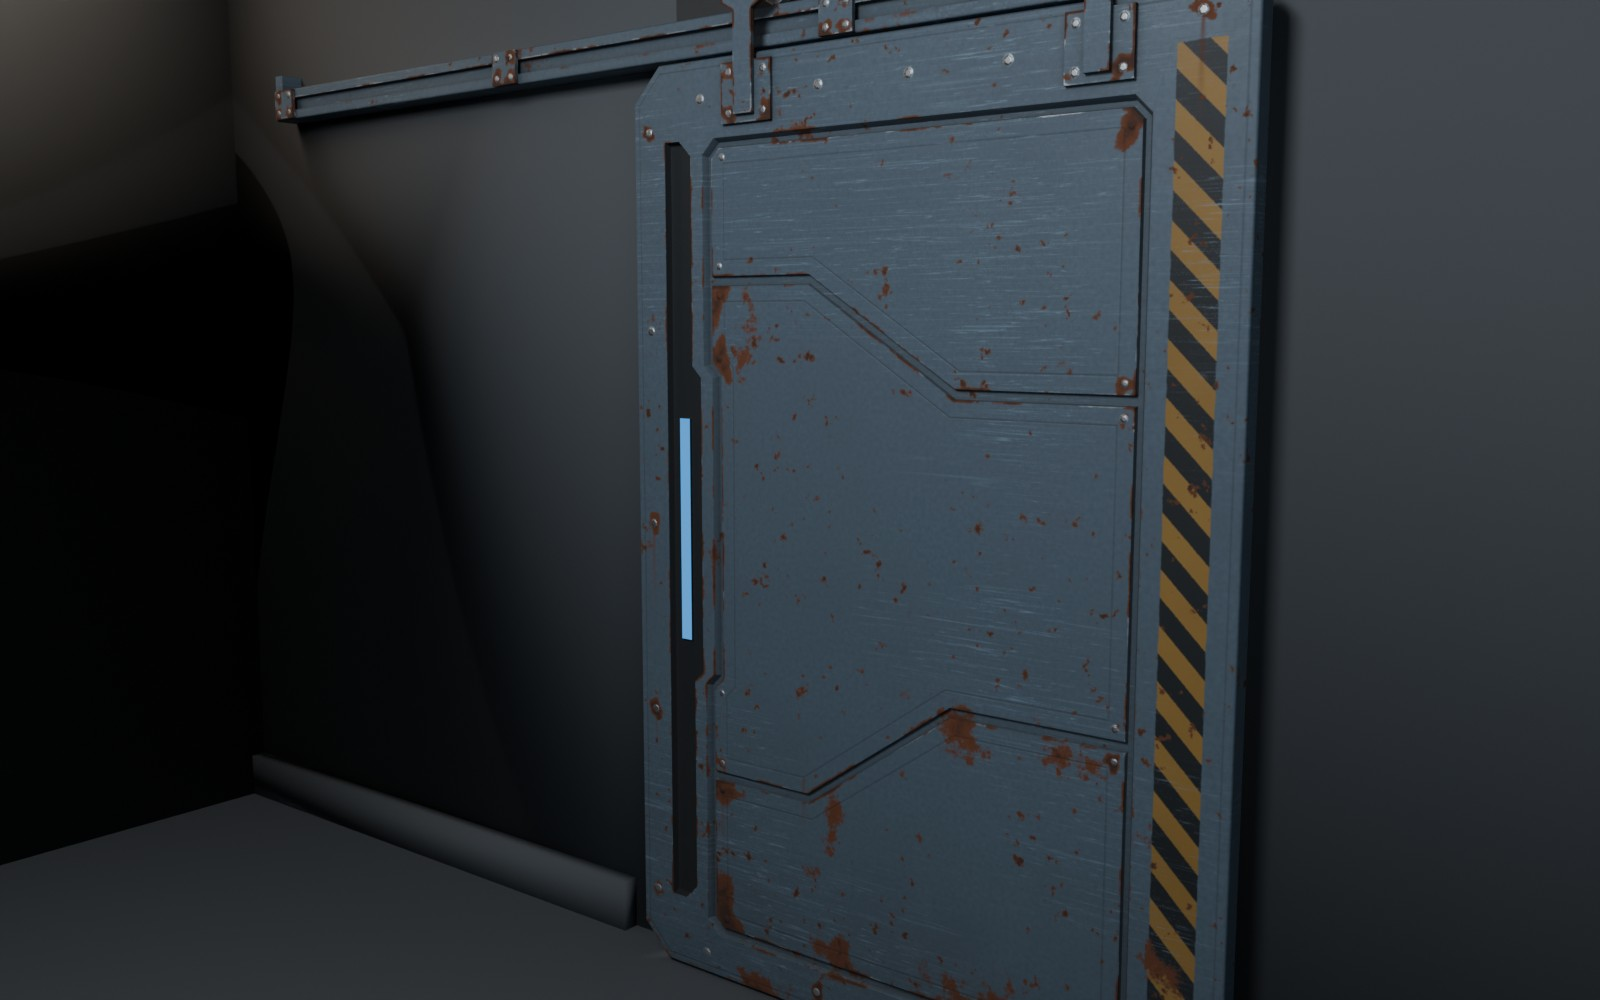
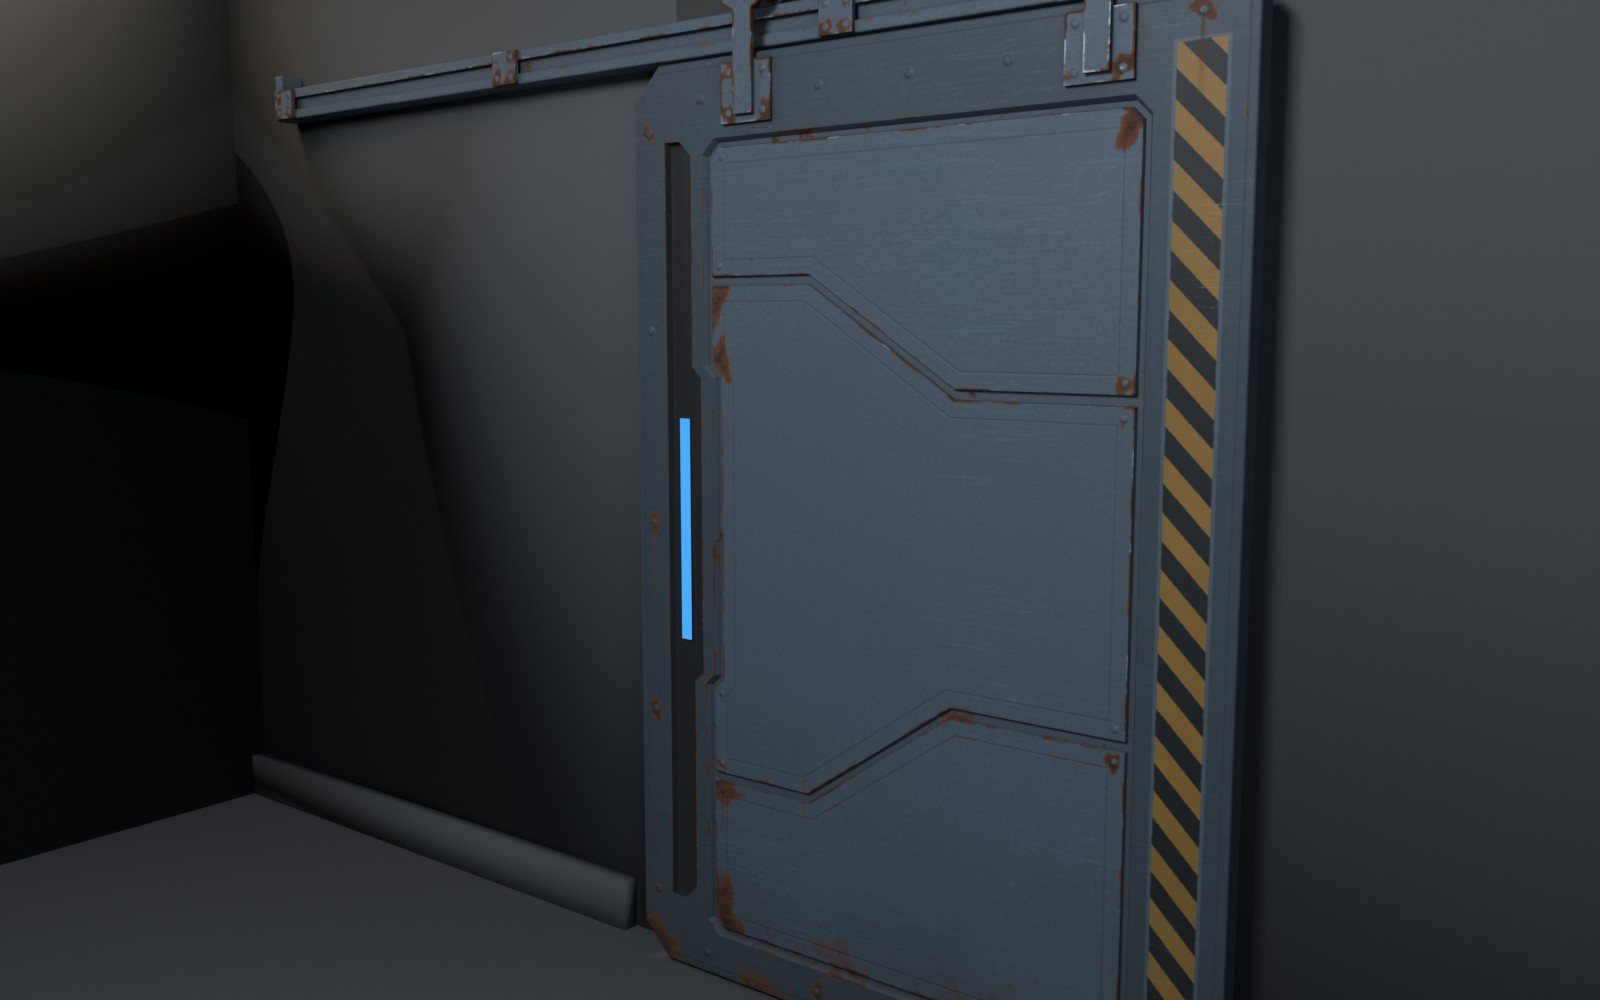
Gate G2c: clean panel centres, painted bolts, polymer rollers, darker frame band
Owner review of the G2b render vs the concept; geometry, UVs and pre-bakes
unchanged.
- gate_tex.py: rust (except run-off streaks) only near edges, seams,
  grooves, bolts, the bottom corners and the bottom 0.35 m (5.7 % of the leaf
  paint, 0.8 % in the panel centres); bolts painted with worn tip spots;
  roller wheels dark polymer via a roller mask, axles steel and rougher;
  leaf frame band darker gunmetal; hairlines relative to the paint; finer
  edge-wear sections; review renders on the Standard view (AgX turned the
  blue strip lavender).
- Checks PASS on the final 2048 bake (AO black, PBR metal >= 180, seams).
- Review renders in Documentation/Media/gate_g2b/ replaced (same names).
- HERO_SPEC §7 look pass G2c, DEVLOG.

diff --git a/Tools/Blender/heroes/gate_tex.py b/Tools/Blender/heroes/gate_tex.py
@@ -69,6 +69,7 @@ PAINT_C, POLY_C, STEEL_C = lin((90, 104, 115)), lin((35, 37, 39)), lin((188, 190
 OCHRE_C, BLACK_C, RUST_C, GRIME_C = lin((159, 120, 58)), lin((35, 37, 39)), lin((120, 62, 34)), lin((44, 41, 37))
 CYAN_E, AMBER_E = lin((70, 170, 255)), lin((240, 150, 60))
 CYAN_OFF, AMBER_OFF = lin((30, 45, 55)), lin((60, 46, 32))
+FRAME_SHADE = (0.60, 0.60, 0.60)       # G2c: frame band = gunmetal x 0.6 (linear) -> about sRGB 70 81 90
 RUST_DARK, RUST_EDGE = lin((66, 44, 34)), lin((112, 64, 38))   # rust centre brown-black, patch edge orange-brown
 
 
@@ -241,13 +242,37 @@ def details(part, mat, P, N):
     # rust base along the leaf's bottom edge; hazard band paint edge
     v = P[..., 1] - G.LEAF_Y0
     # (G2b: the bottom-edge rust is a patchy shader term, see surface_material)
+    # G2c: rust blotches at the leaf's two bottom corners (all faces near the corner, both sides)
+    for cu, cv in ((0.045, 0.045), (1.69, 0.012)):
+        c2 = np.array((G.LEAF_X0 + cu, G.LEAF_Y0 + cv)); R = RNG.uniform(0.09, 0.13)
+        ys, xs = np.nonzero(lf & (np.hypot(P[..., 0] - c2[0], P[..., 1] - c2[1]) < 2.2 * R))
+        x, y = P[ys, xs, 0] - c2[0], P[ys, xs, 1] - c2[1]
+        r = np.hypot(x, y) * wobble(np.arctan2(y, x), RNG, 0.9)
+        RUSTB[ys, xs] = np.maximum(RUSTB[ys, xs], np.clip(1 - r / R, 0, 1) ** 0.7)
+    # G2c masks: roller wheels (leaf steel texels farther than the axle head from an axle axis) and the leaf's outer
+    # frame band (paint on the un-recessed face planes and on the outline sides / chamfers)
+    ROLL = np.zeros_like(H); FRAME = np.zeros_like(H)
+    st = lf & (mat == G.STEEL)
+    ys, xs = np.nonzero(st)
+    if len(ys):
+        ax = [(G.LEAF_X0 + hc + s_ * G.AXLE_DU, G.LEAF_Y0 + G.AXLE_V) for hc in G.HANGERS for s_ in (-1, 1)]
+        r = np.min([np.hypot(P[ys, xs, 0] - a, P[ys, xs, 1] - bb) for a, bb in ax], axis=0)
+        ROLL[ys, xs] = (r > G.AXLE_HEAD_R + 0.0008).astype(np.float32)
+    pz = P[..., 2]
+    pl = lf & (mat == G.PAINT) & (pz > G.LEAF_Z0 - 0.0005) & (pz < G.LEAF_Z1 + 0.0005) & (P[..., 1] < G.LEAF_Y0 + 2.4505)
+    face = pl & ((np.abs(pz - G.LEAF_Z0) < 0.0005) | (np.abs(pz - G.LEAF_Z1) < 0.0005))
+    ys, xs = np.nonzero(pl & ~face)
+    uv = np.column_stack((P[ys, xs, 0] - G.LEAF_X0, P[ys, xs, 1] - G.LEAF_Y0))
+    side = seg_dist(uv, G.OUTLINE) < 0.012
+    FRAME[face] = 1.0; FRAME[ys[side], xs[side]] = 1.0
+    print(f"INFO masks: roller texels {int(ROLL.sum())}, frame band texels {int(FRAME.sum())}")
     bm = lf & (mat >= 0) & ((np.abs(P[..., 2] - G.LEAF_Z0) < 0.0005) | (np.abs(P[..., 2] - G.LEAF_Z1) < 0.0005))
     ys, xs = np.nonzero(bm)
     uv = np.column_stack((P[ys, xs, 0] - G.LEAF_X0, P[ys, xs, 1] - G.LEAF_Y0))
     BANDE[ys, xs] = np.clip(1 - seg_dist(uv, G.BAND) / 0.010, 0, 1)
     Hn = (np.clip(H, H_LO, H_HI) - H_LO) / (H_HI - H_LO)
     print(f"INFO details: {len(bl)} bolts ({len(pnl)} panel corners per face), {len(streak_starts)} rust streaks")
-    return np.stack([Hn, BOLT, STREAK, GROOVE], 2), RUSTB, BANDE
+    return np.stack([Hn, BOLT, STREAK, GROOVE], 2), RUSTB, BANDE, np.stack([ROLL, FRAME], 2)
 
 
 def new_image(name, arr=None, size=TEX):
@@ -427,7 +452,7 @@ class NB:
         return t.outputs["Fac"]
 
 
-def surface_material(slot, d1, d2, ao_img):
+def surface_material(slot, d1, d2, d3):
     """the procedural material of one slot; returns the material with sockets named for the channel bakes"""
     name = G.MATS[slot][0] + "_Tex"
     m = bpy.data.materials.new(name); m.use_nodes = True; nt = m.node_tree
@@ -445,6 +470,8 @@ def surface_material(slot, d1, d2, ao_img):
     b.link(t1.outputs["Color"], s1.inputs[0]); b.link(t2.outputs["Color"], s2.inputs[0])
     Hn, BO, ST = s1.outputs[0], s1.outputs[1], s1.outputs[2]; GR = t1.outputs["Alpha"]
     E, C, RB = s2.outputs[0], s2.outputs[1], s2.outputs[2]; BE = t2.outputs["Alpha"]
+    t3 = b.n("ShaderNodeTexImage", image=d3, interpolation='Linear'); s3 = b.n("ShaderNodeSeparateColor")
+    b.link(t3.outputs["Color"], s3.inputs[0]); ROLL, FRAME = s3.outputs[0], s3.outputs[1]
     nf = b.noise(obj, 90.0, 6.0); nw = b.noise(obj, 2.5, 4.0); nr = b.noise(obj, 22.0, 10.0, 0.65)
     nr2 = b.noise(obj, 140.0, 4.0)
     # scratches (G2b): long fine hairlines, mostly horizontal / diagonal, plus a few longer streaks; no short dashes.
@@ -469,6 +496,7 @@ def surface_material(slot, d1, d2, ao_img):
     if kind == "paint":
         base = b.mix(b.remap(nf, 0.3, 0.7), b.rgb(tuple(0.88 * c for c in PAINT_C)), b.rgb(tuple(1.12 * c for c in PAINT_C)))
         base = b.mix(b.mul(b.remap(nw, 0.35, 0.65), 0.5), base, b.rgb(tuple(0.8 * c for c in PAINT_C)))      # large mottling
+        base = b.mix(FRAME, base, FRAME_SHADE, 'MULTIPLY')                    # G2c: darker gunmetal on the outer frame band
         if slot == G.HAZARD:                                                  # 45 deg ochre / black stripes, 85 mm pitch
             sx = b.math('MULTIPLY', pos.outputs[0], -1.0)
             ph = b.math('FRACT', b.math('DIVIDE', b.add(sx, sy), 0.12))
@@ -480,9 +508,9 @@ def surface_material(slot, d1, d2, ao_img):
             base = b.mix(chip, hz, base)                                       # worn band edge: charcoal under-paint
         # edge wear (G2b): no continuous outline. A coarse noise switches whole edge sections on/off, so bare steel
         # shows on exposed corners (strongest edge mask) and some edge sections only, 1-6 mm wide.
-        sect = b.remap(b.noise(obj, 7.0, 3.0), 0.42, 0.60)
+        sect = b.remap(b.noise(obj, 12.0, 3.0), 0.48, 0.62)                 # G2c: finer, sparser sections (short parts too)
         wear = b.remap(b.add(b.mul(E, b.add(0.5, b.mul(sect, 0.9))), b.mul(b.sub(nr, 0.5), 0.7), b.mul(scratch, 0.25)),
-                       0.58, 0.70)
+                       0.63, 0.73)
         # rust (G2b, STYLE_GUIDE "Rust rule"): patchy on exposed edges / corners and the bottom, blotches in some panel
         # corners and round some bolts (RB), run-off streaks (ST); more towards the floor. rv = rust "depth".
         hb = b.remap(sy, 0.0, 1.3, 0.18, 0.0)                                                         # more towards the floor
@@ -494,18 +522,24 @@ def surface_material(slot, d1, d2, ao_img):
                    b.mul(b.sub(nr, 0.5), 1.1), b.mul(b.sub(nr2, 0.5), 0.3))
         if slot == G.HAZARD:                                                  # the band is worn and rusty, as in the concept
             rv = b.add(rv, b.mul(b.remap(b.noise(obj, 6.0, 4.0), 0.4, 0.7), 0.3))
-        rust = b.clamp(b.add(b.remap(rv, 0.40, 0.52), b.mul(ST, b.remap(nf, 0.2, 0.6, 0.55, 1.0))))
-        col = b.mix(b.mul(scratch, 0.8), base, b.rgb(tuple(2.4 * c for c in PAINT_C)))                    # hairlines read lighter
+        # G2c: panel centres stay clean. Rust (except the run-off streaks) only near features: convex edges, concave
+        # seams / recess corners (low cavity), grooves, bolt and corner blotches (RB) and the bottom 0.35 m.
+        near = b.clamp(b.add(b.remap(b.sub(1.0, C), 0.04, 0.25), b.remap(E, 0.10, 0.40), GR, b.mul(RB, 2.0),
+                             b.remap(sy, 0.0, 0.35, 1.0, 0.0)))
+        rust = b.clamp(b.add(b.mul(b.remap(rv, 0.40, 0.52), near), b.mul(ST, b.remap(nf, 0.2, 0.6, 0.55, 1.0))))
+        col = b.mix(b.mul(scratch, 0.6), base, (1.9, 1.9, 1.9), 'MULTIPLY')                   # hairlines: lighter than the local paint                    # hairlines read lighter
         col = b.mix(wear, col, b.rgb(STEEL_C))
-        col = b.mix(BO, col, b.rgb(tuple(0.95 * c for c in STEEL_C)))
+        # G2c: bolts are painted like their surface; only the tips of some heads are worn to steel (Hn ~0.93 on the head top)
+        tip = b.mul(b.mul(b.mul(BO, b.remap(Hn, 0.86, 0.93)), b.remap(nr2, 0.60, 0.72)), b.remap(nr, 0.35, 0.55))
+        col = b.mix(tip, col, b.rgb(STEEL_C))
         rcol = b.mix(b.remap(rv, 0.62, 0.95), b.rgb(RUST_EDGE), b.rgb(RUST_DARK))                         # dark centres
         rcol = b.mix(b.mul(b.remap(nr2, 0.3, 0.8), 0.35), rcol, b.rgb(tuple(0.85 * c for c in RUST_C)))
         col = b.mix(rust, col, rcol)
-        bare = b.mul(b.math('MAXIMUM', wear, BO), b.sub(1.0, rust))
+        bare = b.mul(b.math('MAXIMUM', wear, tip), b.sub(1.0, rust))
         col = b.mix(b.mul(b.mul(grime, 0.7), b.sub(1.0, b.mul(bare, 0.9))), col, b.rgb(GRIME_C))   # grime spares bare steel
         metal = bare                                                                                    # metallic 1 on bare steel
         rough = b.add(0.58, b.mul(b.sub(nw, 0.5), 0.35), b.mul(scratch, -0.25))
-        rough = b.mixf(b.math('MAXIMUM', wear, BO), rough, b.add(0.50, b.mul(b.sub(nf, 0.5), 0.1), b.mul(grime, 0.25)))
+        rough = b.mixf(b.math('MAXIMUM', wear, tip), rough, b.add(0.60, b.mul(b.sub(nf, 0.5), 0.1), b.mul(grime, 0.25)))
         rough = b.mixf(rust, rough, b.add(0.85, b.mul(b.sub(nr2, 0.5), 0.1)))
         rough = b.add(rough, b.mul(grime, 0.12))
         emis = b.rgb((0, 0, 0))
@@ -527,7 +561,13 @@ def surface_material(slot, d1, d2, ao_img):
         g2 = b.mul(grime, 0.45)
         col = b.mix(b.mul(g2, 0.15), col, b.rgb(GRIME_C))                    # G2b: grime mostly in roughness, albedo stays >= 180
         metal = b.sub(1.0, rust)
-        rough = b.add(0.48, b.mul(b.sub(nw, 0.5), 0.2), b.mul(scratch, 0.1), b.mul(rust, 0.4), b.mul(g2, 0.45))
+        rough = b.add(0.62, b.mul(b.sub(nw, 0.5), 0.2), b.mul(scratch, 0.1), b.mul(rust, 0.3), b.mul(g2, 0.35))
+        # G2c: roller wheels are dark polymer (STYLE_GUIDE 35 37 39); the axles stay steel
+        pcol = b.mix(b.remap(nf, 0.3, 0.7), b.rgb(tuple(0.9 * c for c in POLY_C)), b.rgb(tuple(1.1 * c for c in POLY_C)))
+        pcol = b.mix(b.mul(grime, 0.5), pcol, b.rgb(GRIME_C))
+        col = b.mix(ROLL, col, pcol)
+        metal = b.mixf(ROLL, metal, 0.0)
+        rough = b.mixf(ROLL, rough, b.add(0.66, b.mul(b.sub(nw, 0.5), 0.15)))
         emis = b.rgb((0, 0, 0))
         hgt = b.add(Hn, b.mul(b.sub(nf, 0.5), 0.012))
     else:
@@ -583,7 +623,7 @@ def bake(args):
     part, mat, P, N = texel_maps(lows)
     np.savez_compressed(os.path.join(WORK, "texels.npz"), part=part, mat=mat, P=P, N=N)
     cover = part > 0
-    d1, rustb, bande = details(part, mat, P, N)
+    d1, rustb, bande, d3 = details(part, mat, P, N)
     # pre-bakes: edges, cavity, AO (self only)
     # "-- bake reuse [edge]": cavity and AO (and with "edge" the edge mask) from the last run's pre-bakes, when their
     # inputs (geometry, EDGE_DIST) did not change
@@ -602,8 +642,8 @@ def bake(args):
     cav = blur_masked(res["cavity"], cover, 1)
     print(f"INFO edge mask p90 / p99 {np.percentile(edge[cover], 90):.2f} / {np.percentile(edge[cover], 99):.2f}")
     np.savez_compressed(os.path.join(WORK, "masks.npz"), edge=edge, cavity=cav, ao=res["ao"], d1=d1, rustb=rustb, bande=bande)
-    D1 = new_image("D1", d1); D2 = new_image("D2", np.stack([edge, cav, rustb, bande], 2))
-    mats = [surface_material(s, D1, D2, None) for s in range(len(G.MATS))]
+    D1 = new_image("D1", d1); D2 = new_image("D2", np.stack([edge, cav, rustb, bande], 2)); D3 = new_image("D3", d3)
+    mats = [surface_material(s, D1, D2, D3) for s in range(len(G.MATS))]
     keep = swap_materials(lows, lambda i: mats[i][0])
     maps = {}
     for ch, kind, smp in (("base", "EMIT", "emit"), ("rough", "EMIT", "emit"), ("metal", "EMIT", "emit"),
@@ -799,6 +839,7 @@ def renders(args):
     fast = "fast" in args
     only = set(a for a in args if a != "fast")
     GC.scene_setup(samples=24 if fast else 96)
+    sc.view_settings.view_transform = 'Standard'   # G2c: AgX turned the blue strip pale lavender; PBR Neutral crushed the greys
     if fast: sc.render.resolution_percentage = 50
     sc.world.node_tree.nodes["Background"].inputs[0].default_value = (0.006, 0.008, 0.011, 1)
     room = GC.add_room(); floor = bpy.data.objects["Floor"]

diff --git a/Documentation/HERO_SPEC.md b/Documentation/HERO_SPEC.md
@@ -649,8 +649,30 @@ reused: same geometry and edge distance).
 - Review renders (JPG): `Documentation/Media/gate_g2b/` — front (room side), 3/4, open, hanger, corridor, button,
   detail, dim facility light, the concept-light render and `gate_g2b_room_vs_concept.jpg` (left: the baked Gate in
   neutral even light on the concept's mid-grey 67, right: the concept); flat maps.
-- Differences to the concept that are geometry, not texture (unchanged by design): the concept's darker outer frame
-  band and its hanger shapes.
+- Differences to the concept that are geometry, not texture (unchanged by design): the concept's hanger shapes.
+
+### Look pass G2c (2026-11-03)
+Owner review of `gate_g2b_room_vs_concept.jpg`. Same geometry, UVs and pre-bakes (`-- bake reuse edge`); the textures
+in `Assets/Environment/Heroes/Gate/Textures/` and the G2b render files are replaced (file names kept).
+- **Rust**: panel centres stay clean (scratches and grime only). Rust, except the run-off streaks, now appears only
+  near features: convex edges, seams / recess corners (low cavity), grooves, bolt and panel-corner blotches, two new
+  blotches at the leaf's bottom corners, and the bottom 0.35 m. Coverage: **5.7 % of the leaf paint** (11.7 % below
+  y 0.8, 3.5 % above y 1.6); in the panel centres (68 % of the leaf paint: no edge, seam or bolt, above 0.35 m)
+  0.8 %, from the streaks.
+- **Bolts**: painted like the surface they sit on (gunmetal, darker on the frame band); only speckled spots on some
+  head tops are worn to steel. **Roller wheels**: dark polymer (STYLE_GUIDE 35 37 39; baked median 36 38 40,
+  non-metal); the axles and axle heads stay steel, rougher (steel smoothness median 0.37, G2b ~0.51). Edge-wear
+  sections are finer and sparser, so short parts (straps, plates) get no continuous bright outline; bare steel is
+  0.05 % of the leaf paint.
+- **Frame band**: the leaf's un-recessed face planes and outline sides/chamfers are gunmetal x 0.6 (linear),
+  about sRGB 70 81 90, as in the concept; the panels and the field keep 90 104 115.
+- **Hairline scratches** lighten relative to the local paint (x 1.9), so they stay subtle on the darker frame.
+- **Light strip**: the emission map holds sRGB 70 170 255 (STYLE_GUIDE). The pale lavender in the G2b renders came
+  from the render's AgX view transform, which shifts saturated blue; the review renders now use the Standard view
+  (Khronos PBR Neutral was tried and crushed the grey background). No white clipping in any render.
+- Checks (2048): AO black PASS; PBR PASS (non-metal 30–240: 0 % outside; metal albedo >= 180: 0.09 % of 66,665
+  metal texels below); normal seams PASS (1 of 96 over 6°, the same bolt sample). Bake with reused pre-bakes ~6 min.
+- Open: the axle heads (steel, by design) still read light grey in close key-lit views.
 
 ## 8. Labyrinth v2 — panel, stand and tilt mechanic (props, not heroes)
 

diff --git a/Documentation/DEVLOG.md b/Documentation/DEVLOG.md
@@ -307,3 +307,16 @@ Short entries, newest at the bottom. Date, done, decisions, problems, next, hour
   dim render); Gate Unity import (textures + FBX, importer settings per EXPORT_CONTRACT /
   ASSET_RULES, commit the .meta files) and Quest check; then ServiceArm.
   Hours: not logged
+
+## 2026-11-03 (Gate G2c)
+- Done: look pass G2c after the owner's review of gate_g2b_room_vs_concept.jpg (cloud, bpy 5.2.2): rust moved off the
+  panel centres to edges, seams, bolts, bottom corners and the bottom (5.7 % of the leaf paint, 0.8 % in the panel
+  centres); bolts painted with worn tip spots; roller wheels dark polymer, axles steel (rougher); leaf frame band
+  darker gunmetal (about 70 81 90); hairlines relative to the paint; renders on the Standard view so the strip shows
+  the STYLE_GUIDE blue (AgX made it lavender). Four look iterations, final 2048 bake with reused pre-bakes; checks
+  PASS. Textures and renders replaced (same names); HERO_SPEC §7 "Look pass G2c".
+- Decisions: G2b texture commit replaced by the G2c textures before it was ever pushed; lfs.github.com allowed in the
+  environment's network settings, so the textures go through Git LFS from the cloud.
+- Problems: the axle heads still read light grey in close key-lit views (steel, albedo >= 180 by rule).
+- Next: owner review of the G2c renders; Gate Unity import and Quest check; then ServiceArm.
+  Hours: not logged
